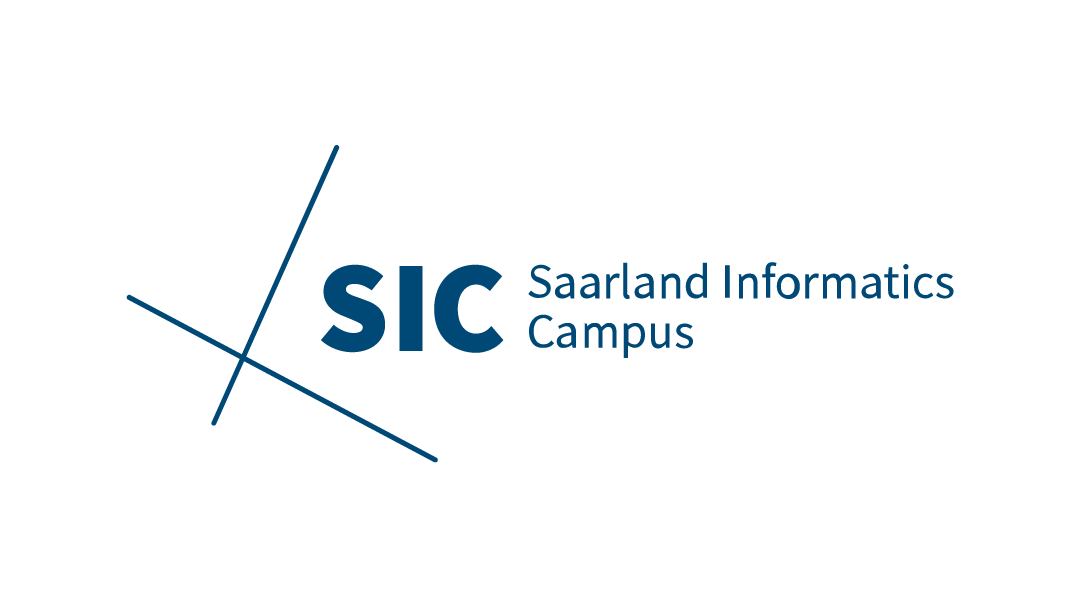
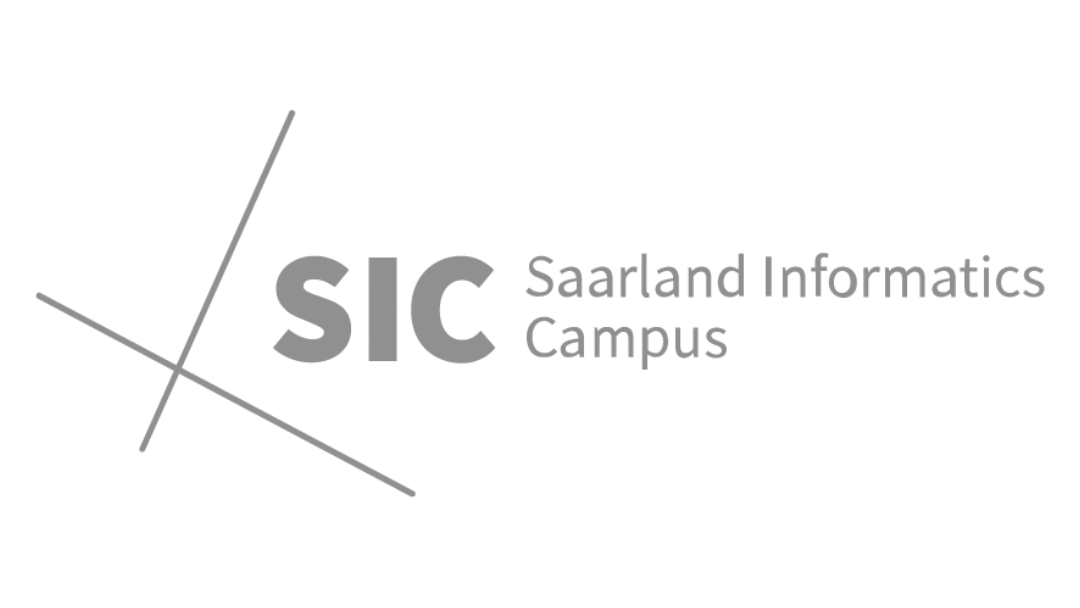
Updated links me3

diff --git a/index.html b/index.html
@@ -159,6 +159,12 @@
     .slot img[alt*="Detesia"] { 
       filter: invert(1) brightness(1.2); 
     }
+    
+    /* Make Saarland logo larger to match other logos */
+    .slot img[alt*="Saarland"] { 
+      max-width: 110%; 
+      max-height: 110%; 
+    }
     .cell-reveal{ opacity:0; transform:translateY(50px); }
     .cell-reveal.visible{ opacity:1; transform:translateY(0); transition:transform .5s ease-out, opacity .5s ease-out; }
     .fade-enter{ opacity:0; transform:translateY(10%); filter:blur(8px); }
